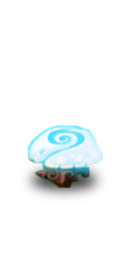
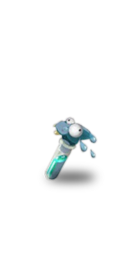
Debut du système de piece

Changed region(s): [[0.1875, 0.4375, 0.8125, 0.7812]]

diff --git a/src/Adventure/World.java b/src/Adventure/World.java
@@ -1,9 +1,6 @@
 package Adventure;
 
-import Adventure.Interface.Deplacable;
-import Adventure.Interface.Fixe;
-import Adventure.Interface.Piege;
-import Adventure.Interface.Ramassable;
+import Adventure.Interface.*;
 import Adventure.ObjetsCarte.*;
 import Adventure.Places.*;
 
@@ -21,7 +18,7 @@ public class World extends JPanel {
     private Position positions[][];
 
     private Heros heros;
-    private List<Personnage> personnages;
+    private List<Animable> animables;
 
     private Place placeCourante;
 
@@ -81,8 +78,8 @@ public class World extends JPanel {
                 Position point = IsometricHelper.point2DToIso(new Position(j, i));
                 ObjetCarte object = mapObjects.get(positions[i][j]);
 
-                if(object instanceof Personnage) {
-                    g.drawImage(object.getImage(),point.x + ((Personnage) object).x, point.y + ((Personnage) object).y, TILE_SIZE, TILE_SIZE*2, this);
+                if(object instanceof Animable) {
+                    g.drawImage(object.getImage(),point.x + ((Animable) object).getX(), point.y + ((Animable) object).getY(), TILE_SIZE, TILE_SIZE*2, this);
                 }
                 else {
                     if (!(object instanceof Vide))
@@ -157,7 +154,7 @@ public class World extends JPanel {
 
     public void niveauSuivant(int x, int y, Direction dir, Sortie s) {
 
-        personnages.forEach(Personnage::stop);
+        animables.forEach(Animable::stop);
         deplacement(x, y, dir);
         attente(300);
 
@@ -202,7 +199,7 @@ public class World extends JPanel {
 
         mapObjects = placeCourante.getMapObjects();
         mapSol = placeCourante.getMapSol();
-        personnages = placeCourante.getPersonnages();
+        animables = placeCourante.getAnimables();
         positions = placeCourante.getPositions();
 
         heros.setPos_in(placeCourante.getHeros().getPos_in());
@@ -266,7 +263,7 @@ public class World extends JPanel {
 
     public boolean poseBombe() {
 
-        if(heros.getMana() >= 10 && heros.getInventaire().nbClefs > 0) {
+        if(heros.getMana() >= 10 && heros.getInventaire().getNbClefs() > 0) {
             heros.perdMana(10);
             ObjetCarte c = mapObjects.get(positions[heros.getPos_in().x][heros.getPos_in().y]);
             if(c instanceof SortieFermee) {

diff --git a/src/Adventure/Places/Place.java b/src/Adventure/Places/Place.java
@@ -1,6 +1,7 @@
 package Adventure.Places;
 
 import Adventure.*;
+import Adventure.Interface.Animable;
 import Adventure.ObjetsCarte.*;
 
 import java.util.ArrayList;
@@ -17,8 +18,7 @@ public abstract class Place {
     private Hashtable<Position, ObjetCarte> mapSol;
     protected List<Sortie> sorties;
 
-    private  List<Personnage> personnages;
-
+    private  List<Animable> animables;
 
     private String nom = "Place Basique";
 
@@ -31,7 +31,7 @@ public abstract class Place {
         mapSol = new Hashtable<Position, ObjetCarte>();
         positions = new Position[World.X_MAX][World.Y_MAX];
         sorties = new ArrayList<Sortie>();
-        personnages = new ArrayList<Personnage>();
+        animables = new ArrayList<Animable>();
     }
 
     public void initialisation() {
@@ -40,7 +40,7 @@ public abstract class Place {
     }
 
     public void lancePersonnage() {
-        personnages.forEach(Personnage::active);
+        animables.forEach(Animable::active);
     }
 
     public abstract void initSorties();
@@ -105,7 +105,12 @@ public abstract class Place {
             case 16:
                 Personnage personnage = new Personnage(positions[i][j],heros);
                 mapObjects.put(positions[i][j], personnage);
-                personnages.add(personnage);
+                animables.add(personnage);
+                break;
+            case 17:
+                Piece p = new Piece(positions[i][j], heros);
+                mapObjects.put(positions[i][j], p);
+                animables.add(p);
                 break;
             default: mapObjects.put(positions[i][j], new Vide());break;
 
@@ -144,8 +149,8 @@ public abstract class Place {
         this.LEVEL_OBJECTS = LEVEL_OBJECTS;
     }
 
-    public List<Personnage> getPersonnages() {
-        return personnages;
+    public List<Animable> getAnimables() {
+        return animables;
     }
 }
 

diff --git a/src/Adventure/Runnable/RunnablePiece.java b/src/Adventure/Runnable/RunnablePiece.java
@@ -1,0 +1,71 @@
+package Adventure.Runnable;
+
+import Adventure.*;
+import Adventure.ObjetsCarte.Piece;
+
+public class RunnablePiece implements Runnable {
+
+    private Heros heros;
+    private Piece piece;
+
+    private boolean niveauFini = false;
+
+    public RunnablePiece(Heros h, Piece piece) {
+        this.heros = h;
+        this.piece = piece;
+    }
+
+    @Override
+    public void run() {
+
+        while (!niveauFini) {
+
+            animation();
+
+            try {
+                Thread.sleep(1);
+            } catch (InterruptedException e) {
+                e.printStackTrace();
+            }
+        }
+    }
+
+    public void animation() {
+
+        int offset = 1;
+
+        int i = 0;
+        while (i < 20) {
+
+            piece.y -= offset;
+            heros.getWorld().repaint();
+
+            try {
+                Thread.sleep(20);
+            } catch (InterruptedException e) {
+                e.printStackTrace();
+            }
+
+            i++;
+        }
+        i = 0;
+        while (i < 20) {
+
+            piece.y += offset;
+            heros.getWorld().repaint();
+
+            try {
+                Thread.sleep(20);
+            } catch (InterruptedException e) {
+                e.printStackTrace();
+            }
+
+            i++;
+        }
+
+    }
+
+    public void setNiveauFini(boolean niveauFini) {
+        this.niveauFini = niveauFini;
+    }
+}

diff --git a/src/Adventure/ObjetsInventaire/Inventaire.java b/src/Adventure/ObjetsInventaire/Inventaire.java
@@ -15,15 +15,15 @@ public class Inventaire extends JPanel {
     private Image image;
     private List<Potion> stock;
 
-    public int nbPotionVie = 0;
-    public int nbPotionMana = 0;
-    public int nbClefs = 0;
+    private int nbPotionVie = 0;
+    private int nbPotionMana = 0;
+    private int nbClefs = 0;
+    private int nbPieces = 0;
 
     private Heros heros;
 
-
-    public RunnableVie runnableVie;
-    public RunnableMana runnableMana;
+    private RunnableVie runnableVie;
+    private RunnableMana runnableMana;
 
     public Inventaire(Heros h) {
         image = Images.INVENTAIRE;
@@ -38,6 +38,9 @@ public class Inventaire extends JPanel {
     @Override
     public void paint(Graphics g) {
         super.paint(g);
+
+        g.setColor(new Color(9, 128, 1));
+        g.fillRect(230, 15, 65, ((nbPieces))*22);
 
         g.setColor(new Color(0, 0, 0));
         g.drawImage(image, 2, 8, this);
@@ -141,6 +144,21 @@ public class Inventaire extends JPanel {
 
     public void demarreAnimation(Thread t) {
         t.start();
+    }
+
+    public void remplirCompteurCle() {
+
+        nbPieces++;
+        if(nbPieces >= 4) {
+            nbPieces = 0;
+            ajouterElement(new PotionClef());
+        }
+
+        repaint();
+    }
+
+    public int getNbClefs() {
+        return nbClefs;
     }
 }
 

diff --git a/src/Adventure/ObjetsCarte/Piece.java b/src/Adventure/ObjetsCarte/Piece.java
@@ -1,0 +1,54 @@
+package Adventure.ObjetsCarte;
+
+import Adventure.Heros;
+import Adventure.Images;
+import Adventure.Interface.Animable;
+import Adventure.Interface.Fixe;
+import Adventure.Interface.Ramassable;
+import Adventure.IsometricHelper;
+import Adventure.Position;
+import Adventure.Runnable.RunnableMonstre;
+import Adventure.Runnable.RunnablePiece;
+
+public class Piece extends ObjetCarte implements Fixe, Ramassable, Animable {
+
+    public Position p;
+
+    public int x = 0;
+    public int y = 0;
+
+    private Thread t;
+    private RunnablePiece m;
+
+    public Piece(Position p, Heros h) {
+        this.p = IsometricHelper.point2DToIso(p);
+        m = new RunnablePiece(h,this);
+        t = new Thread(m);
+    }
+
+    @Override
+    public void assigneImage() {
+        image = Images.PIECE;
+    }
+
+
+    @Override
+    public void active() {
+        t.start();
+    }
+
+    @Override
+    public void stop() {
+        m.setNiveauFini(true);
+    }
+
+    @Override
+    public int getX() {
+        return x;
+    }
+
+    @Override
+    public int getY() {
+        return y;
+    }
+}

diff --git a/src/Adventure/ObjetsCarte/Personnage.java b/src/Adventure/ObjetsCarte/Personnage.java
@@ -2,6 +2,7 @@ package Adventure.ObjetsCarte;
 
 import Adventure.Heros;
 import Adventure.Images;
+import Adventure.Interface.Animable;
 import Adventure.Interface.Piege;
 import Adventure.ObjetsCarte.ObjetCarte;
 import Adventure.Position;
@@ -9,7 +10,7 @@ import Adventure.Runnable.RunnableMonstre;
 import Adventure.World;
 
 
-public class Personnage extends ObjetCarte implements Piege {
+public class Personnage extends ObjetCarte implements Piege,Animable {
 
     public Position p;
 
@@ -25,11 +26,23 @@ public class Personnage extends ObjetCarte implements Piege {
         t = new Thread(m);
     }
 
+    @Override
     public void active() {
         t.start();
     }
 
+    @Override
     public void stop() { m.setNiveauFini(true);}
+
+    @Override
+    public int getX() {
+        return x;
+    }
+
+    @Override
+    public int getY() {
+        return y;
+    }
 
     public void assigneImage() {
         switch (dir) {

diff --git a/src/Adventure/Images.java b/src/Adventure/Images.java
@@ -68,6 +68,8 @@ public class Images {
     public static Image LAPIN_OUEST;
     public static Image LAPIN_EST;
 
+    public static Image PIECE;
+
     public static void chargementImage() {
         try {
 
@@ -128,6 +130,8 @@ public class Images {
             BUISSON_EST = ImageIO.read(new FileInputStream("res/buisson_est.png"));
 
             SELECTION = ImageIO.read(new FileInputStream("res/selection.png"));
+
+            PIECE = ImageIO.read(new FileInputStream("res/piece.png"));
 
             LAPIN_SUD = ImageIO.read(new FileInputStream("res/lapinSud.png"));
             LAPIN_NORD = ImageIO.read(new FileInputStream("res/lapinNord.png"));

diff --git a/src/Adventure/Heros.java b/src/Adventure/Heros.java
@@ -39,6 +39,8 @@ public class Heros {
             inventaire.ajouterElement(new PotionMana(p.quantite()));
         else if (p instanceof Clef)
             inventaire.ajouterElement(new PotionClef());
+        else
+            inventaire.remplirCompteurCle();
     }
 
     public void utiliserObjet(int i) {

diff --git a/src/Adventure/Interface/Animable.java b/src/Adventure/Interface/Animable.java
@@ -1,0 +1,15 @@
+package Adventure.Interface;
+
+/**
+ * Created by Etienne on 24/11/2015.
+ */
+public interface Animable {
+
+    void active();
+
+    void stop();
+
+    int getX();
+
+    int getY();
+}

diff --git a/src/Adventure/Runnable/RunnableMonstre.java b/src/Adventure/Runnable/RunnableMonstre.java
@@ -26,7 +26,6 @@ public class RunnableMonstre implements Runnable {
 
         while (!niveauFini) {
 
-
             nouvellePosition();
 
             animation();
